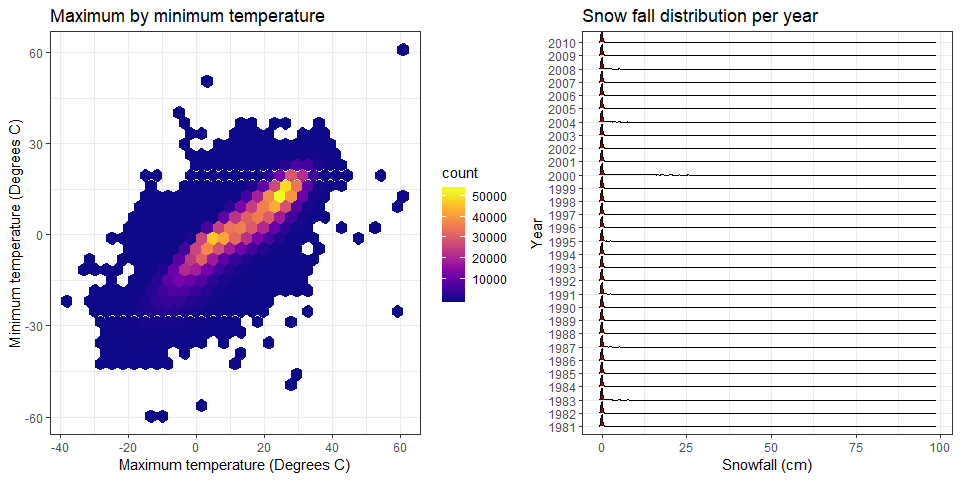
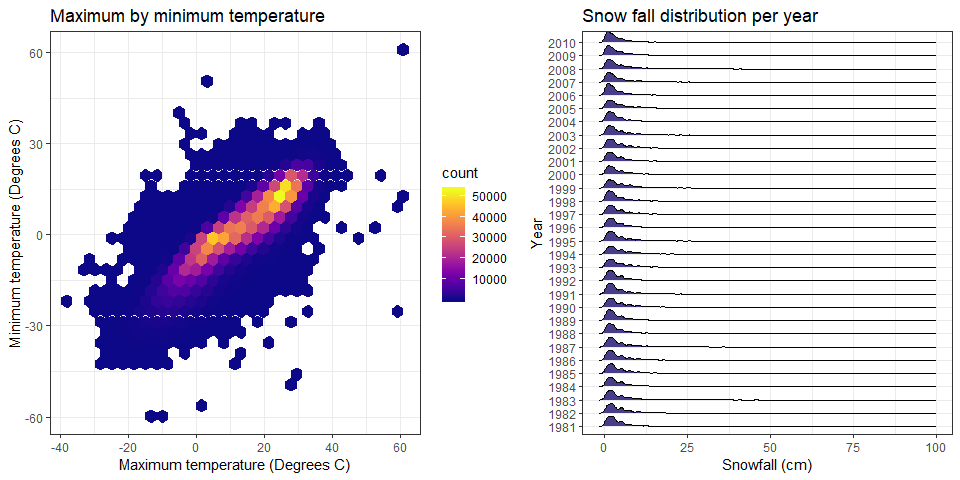
final knit check

diff --git a/p8105_hw3_smi2112.md b/p8105_hw3_smi2112.md
@@ -64,18 +64,20 @@ Table showing for the years 2002, 2006, and 2010 the mean and std of the proport
 brfss %>% 
   filter(state == "NY") %>% 
   filter(year == 2002 | year == 2006 | year == 2010) %>% 
-  select(year, county, response) %>% 
+  filter(response == "Excellent") %>% 
+  rename(proportion = data_value) %>% 
+  select(year, proportion) %>% 
   group_by(year) %>% 
-  summarize("Mean" = mean(response == "Excellent"), "Std" = sd(response == "Excellent")) %>% 
+  summarize("Mean" = mean(proportion), "Std" = sd(proportion)) %>% 
   rename("Year" = year) %>% 
   knitr::kable()
 ```
 
-|  Year|  Mean|        Std|
-|-----:|-----:|----------:|
-|  2002|   0.2|  0.4082483|
-|  2006|   0.2|  0.4068381|
-|  2010|   0.2|  0.4045199|
+|  Year|      Mean|       Std|
+|-----:|---------:|---------:|
+|  2002|  24.04000|  4.486424|
+|  2006|  22.53333|  4.000833|
+|  2010|  22.70000|  3.567212|
 
 For each year and state, the average proportion in each response category:
 
@@ -277,7 +279,7 @@ ny_noaa <- ny_noaa %>%
 
 Date was sepparated into year, month, and day. Maximum and minimum temperature were changed from tenths of degrees C to degrees C. Precipitation was changed from tenths of a mm to cm. Snowfall and snow depth were changed from mm to cm.
 
-The most commonly observed snowfall value is 0 cm. The second most commonly observed snowfall is 2.5 cm. It is logical that the top most observed snowfall is 0 cm because
+The most commonly observed snowfall value is 0 cm. The second most commonly observed snowfall is 2.5 cm. It is logical that the top most observed snowfall is 0 cm because it is more common to have no snow than to have any snow.
 
 ``` r
 ny_noaa %>% 
@@ -321,6 +323,8 @@ ny_noaa %>%
 
 ![](p8105_hw3_smi2112_files/figure-markdown_github/unnamed-chunk-17-1.png)
 
+From the above plot, we can observe that there seems to be a sinusoidal trend over the years for both January and July. The maximum temperatures in January at each station are lower than the maximum temperatures in July. There is an outlier at one of the stations in January of 1982 and another in July of 1988.
+
 Two-panel plot showing (i) tmax vs tmin for the full dataset and (ii) the distribution of snowfall values between 0 and 100 separately by year:
 
 ``` r
@@ -333,9 +337,9 @@ plot1 <- ggplot(ny_noaa, aes(x = tmax, y = tmin)) +
   theme_bw()
 
 plot2 <- ny_noaa %>% 
-  filter(snow >= 0 & snow <= 100) %>% 
+  filter(snow > 0 & snow < 100) %>% 
   ggplot(aes(x = snow, y = year)) +
-  geom_density_ridges(scale = 0.9, fill = "darkred") + 
+  geom_density_ridges(scale = 0.9, fill = "darkslateblue") + 
   labs(title = "Snow fall distribution per year", x = "Snowfall (cm)", y = "Year") +
   theme_bw()
 
@@ -344,6 +348,6 @@ plot1 + plot2
 
     ## Warning: Removed 1136276 rows containing non-finite values (stat_binhex).
 
-    ## Picking joint bandwidth of 0.236
+    ## Picking joint bandwidth of 0.622
 
 ![](p8105_hw3_smi2112_files/figure-markdown_github/unnamed-chunk-18-1.png)
